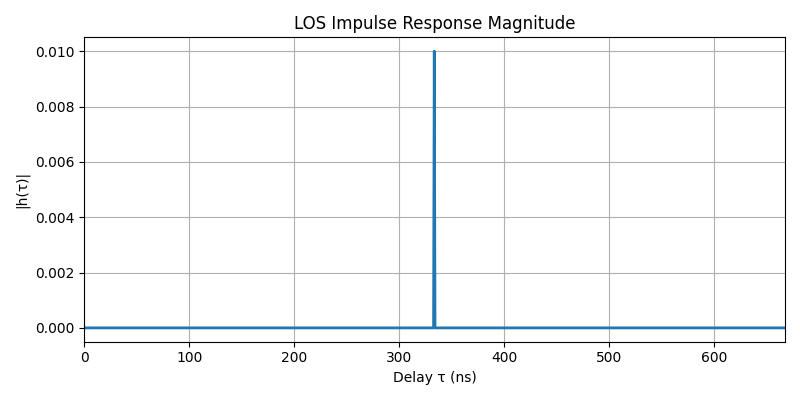
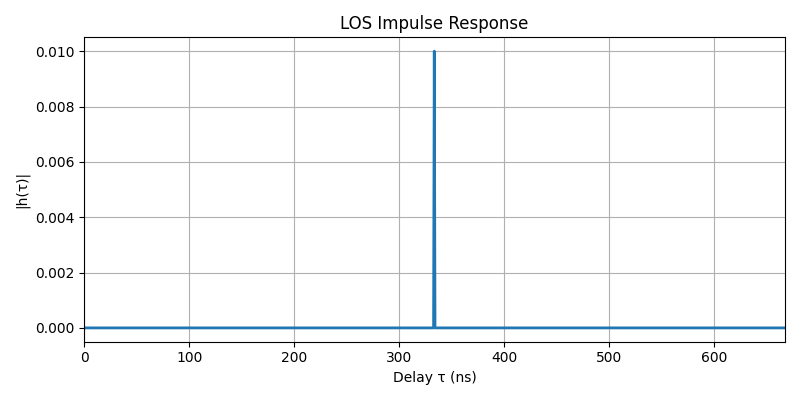
small changes

Changed region(s): [[0.375, 0.03, 0.7188, 0.09]]

diff --git a/.venv/heatmap.py b/.venv/heatmap.py
@@ -9,6 +9,8 @@ matplotlib.use('TkAgg')
 from matplotlib.collections import LineCollection
 from functools import partial
 from concurrent.futures import ProcessPoolExecutor
+from mpl_toolkits.mplot3d import Axes3D  # noqa: F401
+from mpl_toolkits.mplot3d.art3d import Poly3DCollection
 from environment import Environment
 from raytracing import RayTracing
 from position import Position
@@ -68,7 +70,7 @@ def calculate_average_received_power(env, ray_tracer, width, height):
             count += 1
     return total_power / count if count else -np.inf
 
-def create_heatmap(env, width, height, resolution, with_pl=False):
+def create_heatmap(env, width, height, resolution):
     x = np.arange(0, width, resolution)
     y = np.arange(0, height, resolution)
     X, Y = np.meshgrid(x, y)
@@ -84,10 +86,10 @@ def create_heatmap(env, width, height, resolution, with_pl=False):
     power_grid = power.reshape(X.shape)
     average_power = calculate_average_received_power(env, rt, width, height)
     print(f"Average Received Power: {average_power:.2f} dBm")
-    title = f'Received Power Heatmap (dBm)'
+    title = f'Received Power Heatmap with resolution {resolution} m²'
     fig, ax = plt.subplots(figsize=(12, 10))
     pcm = ax.pcolormesh(X, Y, power_grid, shading='auto', cmap='viridis',
-                        vmin=np.nanmin(power_grid), vmax=np.nanmax(power_grid))
+                         vmin=np.nanmin(power_grid)-7, vmax=np.nanmax(power_grid))
     fig.colorbar(pcm, ax=ax, label='Received Power (dBm)')
     draw_obstacles(ax, env)
     ax.set_title(title)
@@ -109,16 +111,82 @@ def create_heatmap(env, width, height, resolution, with_pl=False):
     # plt.show()
     return power_grid
 
+
+def create_heatmap_3d(env, width, height, resolution, building_height=12.0):
+    # 2) Sample power grid
+    x = np.arange(0, width, resolution)
+    y = np.arange(0, height, resolution)
+    X, Y = np.meshgrid(x, y)
+
+    rt   = RayTracing(env)
+    func = partial(calculate_power_at_point, env, rt)
+    with ProcessPoolExecutor() as ex:
+        P = np.array(list(ex.map(func, X.ravel(), Y.ravel())))
+    Z = P.reshape(X.shape)
+
+    # 3) Interactive 3D plot
+    fig = plt.figure(figsize=(12,8))
+    ax  = fig.add_subplot(111, projection='3d')
+
+    surf = ax.plot_surface(
+        X, Y, Z,
+        rcount=X.shape[0], ccount=X.shape[1],
+        cmap='viridis', edgecolor='none'
+    )
+    fig.colorbar(surf, ax=ax, shrink=0.5, aspect=10,
+                 label='Received Power (dBm)')
+
+    # 4) Extrude buildings at constant base
+    z0 = np.nanmin(Z)
+    for obs in env.obstacles:
+        x0, y0 = obs.start.x, obs.start.y
+        x1, y1 = obs.end.x,   obs.end.y
+        t = obs.thickness
+        # north building band
+        yb = 20.0
+        verts_n = [
+            (x0, yb, z0), (x1, yb, z0),
+            (x1, yb+t, z0), (x0, yb+t, z0)
+        ]
+        # south building band
+        ys = 0.0
+        verts_s = [
+            (x0, ys, z0), (x1, ys, z0),
+            (x1, ys-t, z0), (x0, ys-t, z0)
+        ]
+        for base in (verts_n, verts_s):
+            top = [(x,y,z0+building_height) for x,y,_ in base]
+            faces = [
+                [base[0], base[1], top[1], top[0]],
+                [base[1], base[2], top[2], top[1]],
+                [base[2], base[3], top[3], top[2]],
+                [base[3], base[0], top[0], top[3]],
+            ]
+            poly = Poly3DCollection(faces,
+                                    facecolors=obs.material.color,
+                                    edgecolors='k', alpha=1)
+            ax.add_collection3d(poly)
+
+    # 5) Labels & view
+    ax.set_xlabel('X (m)')
+    ax.set_ylabel('Y (m)')
+    ax.set_zlabel('Power (dBm)')
+    ax.set_title(f'3D Power Surface with resolution {resolution} m²')
+    ax.view_init(elev=35, azim=-20)
+    ax.set_zlim(np.nanmin(Z), np.nanmax(Z))
+    plt.tight_layout()
+    plt.savefig(os.path.join(outdir, f"received_power_heatmap_3D.png"), dpi=300)
+    plt.show()
+
+
 if __name__ == '__main__':
     env = Environment()
     env.emitters[0].position = Position(500, 10)
     start = time.time()
     res=1
    # multiprocessing.freeze_support()  # Windows only, safe elsewhere
-    create_heatmap(env, width=1000, height=21, resolution=res,
-                   with_pl=False)
-
-
+    create_heatmap(env, width=1000, height=21, resolution=res)
+    create_heatmap_3d(env, width=1000, height=21, resolution=res,building_height=90.0)
 
     end = time.time()
     print(f"Total Heatmap Time: {end - start:.2f}s")

diff --git a/.venv/Step5.py b/.venv/Step5.py
@@ -94,10 +94,10 @@ def step5_full_wideband(env, rt, BRF=100e6):
 
     # --- 3) Plot |h(τ)| ---
     plt.figure(figsize=(8,4))
-    plt.plot(t*1e9, np.abs(h), '-o', markersize=4, linewidth=1.5)
+    plt.plot(t*1e9, np.abs(h), '-', markersize=4, linewidth=1.5)
     plt.xlabel('Delay τ (ns)')
     plt.ylabel('|h(τ)|')
-    plt.title('Full‐Channel Physical Impulse Response')
+    plt.title('Channel Physical Impulse Response')
     plt.xlim(0, t_max*1e9)
     plt.grid(True)
     plt.tight_layout()
@@ -109,7 +109,7 @@ def step5_full_wideband(env, rt, BRF=100e6):
     plt.plot(t*1e9, np.degrees(np.angle(h)), '-o', markersize=4, linewidth=1.5)
     plt.xlabel('Delay τ (ns)')
     plt.ylabel('Phase h(τ) (°)')
-    plt.title('Full‐Channel Impulse Response Phase')
+    plt.title('Channel Impulse Response Phase')
     plt.xlim(0, t_max*1e9)
     plt.grid(True)
     plt.tight_layout()
@@ -128,7 +128,7 @@ def step5_full_wideband(env, rt, BRF=100e6):
     plt.plot(f*1e-6, np.abs(H2), '-', linewidth=2)
     plt.xlabel('Frequency Offset (MHz)')
     plt.ylabel('|H(f)|')
-    plt.title('Full‐Channel Frequency Response Magnitude')
+    plt.title('Channel Frequency Response')
     #plt.xlim(-BRF/2*1e-6-1, BRF/2*1e-6+1)
     #plt.xticks(np.arange(-50, 51, 25))  # ticks at -50, -25, 0, 25, 50
     plt.grid(True)
@@ -224,13 +224,13 @@ def step5_2_TDL_full(env, rt, BRF=100e6):
     plt.plot(
         t_l*1e9,            # ns
         np.abs(h_l),        # amplitude
-        '-o',               # line with circle markers
+        '-',               # line with circle markers
         linewidth=2,
         markersize=5
     )
     plt.xlabel('Delay τ (ns)')
     plt.ylabel('|$h_{TDL}(τ)$|')
-    plt.title('Tapped-Delay-Line of Full Channel')
+    plt.title('Full Channel Tapped-Delay-Line Impulse Response')
     plt.xlim(0, t_l.max()*1e9+10)
     plt.grid(True)
     plt.tight_layout()
@@ -241,5 +241,5 @@ def step5_2_TDL_full(env, rt, BRF=100e6):
 if __name__ == '__main__':
     env = Environment()
     rt  = RayTracing(env)
-    step5_full_wideband(env, rt, BRF=100e6)
+   # step5_full_wideband(env, rt, BRF=100e6)
     step5_2_TDL_full(env, rt, BRF=100e6)

diff --git a/.venv/Step4.py b/.venv/Step4.py
@@ -31,7 +31,7 @@ def step4_1_wideband_LOS(env, rt, BRF=100e6, Nt=1000, Nf=1000):
     plt.plot(t * 1e9, np.abs(h),'-',markersize=6,linewidth=2)
     plt.xlabel('Delay τ (ns)')
     plt.ylabel('|h(τ)|')
-    plt.title('LOS Impulse Response Magnitude')
+    plt.title('LOS Impulse Response')
     plt.xlim(0, t_max*1e9)  # limit x-axis from 0 to 2*tau1 in ns
     plt.grid(True)
     plt.tight_layout()
@@ -59,8 +59,9 @@ def step4_1_wideband_LOS(env, rt, BRF=100e6, Nt=1000, Nf=1000):
     plt.plot((f-fc)*1e-6, np.abs(H), 'C0-')
     plt.xlabel('Frequency Offset (MHz)')
     plt.ylabel('|H(f)|')
-    plt.title('LOS Frequency Response Magnitude')
-    plt.xlim(-BRF/2*1e-6-5, BRF/2*1e-6+5)  # set x-axis ±50 MHz
+    plt.title('LOS Frequency Response')
+    plt.xlim(-BRF/2*1e-6-5, BRF/2*1e-6+5)
+    plt.ylim(0,2/d1)# set x-axis ±50 MHz
     plt.xticks(np.arange(-50, 51, 25))  # ticks at -50, -25, 0, 25, 50
     plt.grid(True)
     plt.tight_layout()
@@ -69,9 +70,7 @@ def step4_1_wideband_LOS(env, rt, BRF=100e6, Nt=1000, Nf=1000):
     plt.show()
 def step4_2_TDL_wideband(env, rt, BRF=100e6):
     """
-    Step 4.2: Tapped‐Delay‐Line for the LOS ray only, with finite bandwidth:
-      h_TDL(τ) = Σ_{l=0}^L α₁ · sinc( BRF·(τ₁ - l·Δτ) ) · δ( τ - l·Δτ )
-    where Δτ = 1/BRF,  α₁ = exp(-j2π f_c τ₁)/d₁, and τ₁=d₁/c.
+    Step 4.2: Tapped‐Delay‐Line for the LOS ray only
     """
     # 1) TX/RX geometry
     tx   = env.emitters[0]
@@ -97,7 +96,7 @@ def step4_2_TDL_wideband(env, rt, BRF=100e6):
     plt.plot(t_l * 1e9, np.abs(h_l),'-',markersize=6,linewidth=2)
     plt.xlabel('Delay τ (ns)')
     plt.ylabel('|$h_{TDL}(τ)$|')
-    plt.title('$h_{TDL}(τ)$ Impulse Response')
+    plt.title('$h_{TDL}(τ)$ LOS Impulse Response')
     plt.xlim(0, t_l.max()*1e9)
     plt.grid(True)
     plt.tight_layout()

diff --git a/.venv/Step3_6.py b/.venv/Step3_6.py
@@ -50,7 +50,7 @@ def main():
     ys = np.arange(0, height, res)
     X, Y = np.meshgrid(xs, ys)
 
-    P_meas = create_heatmap(env, width, height, res, with_pl=False)
+    P_meas = create_heatmap(env, width, height, res)
     Ptx_dBm = 10 * np.log10(rt.P_TX / 1e-3)
 
     # 4) Extraction de la transectée au niveau de l'émetteur
@@ -75,7 +75,7 @@ def main():
     L_friis = 20*np.log10(d_vals) + 20*np.log10(rt.frequency) - 147.55 - 20*np.log10(G)
 
     plt.figure(figsize=(8,5))
-    plt.plot(d_line, L0_line, 'o', ms=4, label='Simulation')
+    plt.plot(d_line, L0_line, 'o', ms=4, label='Averaged Received Power')
     plt.plot(d_vals, L0_fit, 'r-', lw=2, label=f'Fitted Path Loss {L0_d0:.3f}+10·{n:.4f}log10(d)')
     plt.plot(d_vals, L_friis, 'k--', label='FSPL')
     plt.xlabel('Distance (m)')
@@ -90,7 +90,7 @@ def main():
     residuals = L0_line[mask] - L0_pred
     #residuals=Ptx_dBm-P_meas
     residuals_centered = residuals - np.mean(residuals)
-    sigma_L = np.std(residuals_centered, ddof=1)
+    sigma_L = np.std(residuals, ddof=1)
     print(f"Variability σ_L around the model: {sigma_L:.2f} dB")
     stat, p_value = stats.kstest(residuals_centered, 'norm', args=(0, sigma_L))
     print(f"KS test: statistic= {stat:.3f}, p-value= {p_value:.3f}")

diff --git a/.venv/Step3_3.py b/.venv/Step3_3.py
@@ -111,7 +111,7 @@ def main():
     emitter = env.emitters[0]
     receiver = env.receivers[0]
 
-    mode = [1, 2]  # [MPCs, TX variation]
+    mode = [0, 2]  # [MPCs, TX variation]
 
     # Step 1 & 2: MPCs
     if mode[0] == 1:
@@ -153,7 +153,7 @@ def main():
         plt.plot(P_TX_vals, PRX_friis, '--', label='Friis Model')
         plt.xlabel('Transmit Power $P_{TX}$ (W)')
         plt.ylabel('Received Power $P_{RX}$ (W)')
-        plt.title(f'Step 3.3 – $P_{{RX}}$ vs $P_{{TX}}$ at {d0:.1f} m')
+        plt.title(f'$P_{{RX}}$ vs $P_{{TX}}$ at {d0:.1f} m')
         plt.legend()
         plt.grid(alpha=0.5)
         plt.tight_layout()
@@ -194,7 +194,7 @@ def main():
         plt.semilogy(dist_vals, PRX_friis, '--', label='Friis Model')
         plt.xlabel('Distance (m)')
         plt.ylabel('Received Power $P_{RX}$ (W)')
-        plt.title('Step 3.3b – $P_{RX}$ vs Distance ')
+        plt.title('$P_{RX}$ vs Distance ')
         plt.legend()
         plt.grid(which='both', linestyle=':', alpha=0.7)
         plt.tight_layout()

diff --git a/.venv/environment.py b/.venv/environment.py
@@ -53,8 +53,8 @@ class Environment:
         Initialise les obstacles dans l'environnement, représentant des bâtiments, des murs, etc.
         """
         # Ajout de bâtiments en béton
-        self.obstacles.append(Obstacle(Position(0, 0), Position(1000, 0), self.materials['building'], 10.0))
-        self.obstacles.append(Obstacle(Position(0, 20), Position(1000, 20), self.materials['building'], 10.0))
+        self.obstacles.append(Obstacle(Position(0, 0), Position(1000, 0), self.materials['building'], 5.0))
+        self.obstacles.append(Obstacle(Position(0, 20), Position(1000, 20), self.materials['building'], 5.0))
 
 
     def init_emitters(self):

diff --git a/.venv/Step3_4.py b/.venv/Step3_4.py
@@ -69,11 +69,11 @@ def main():
     plt.figure(figsize=(8, 5))
     #plt.plot(distances, K_vals, label='K (linear)')
     plt.plot(distances, K_dB, '-', label='K (dB)')
-    plt.plot(distances, K_dB_2, '-', label='K (dB) with interference')
+    #plt.plot(distances, K_dB_2, '-', label='K (dB) Real Values')
 
     plt.xlabel('Transmitter–Receiver Distance (m)')
-    plt.ylabel('Rician K-Factor')
-    plt.title('Rician K-Factor Variation with Distance')
+    plt.ylabel('Rician K-Factor (dB)')
+    plt.title('Rice Factor Variation with Distance')
     plt.legend()
     plt.grid(alpha=0.5)
     plt.tight_layout()
